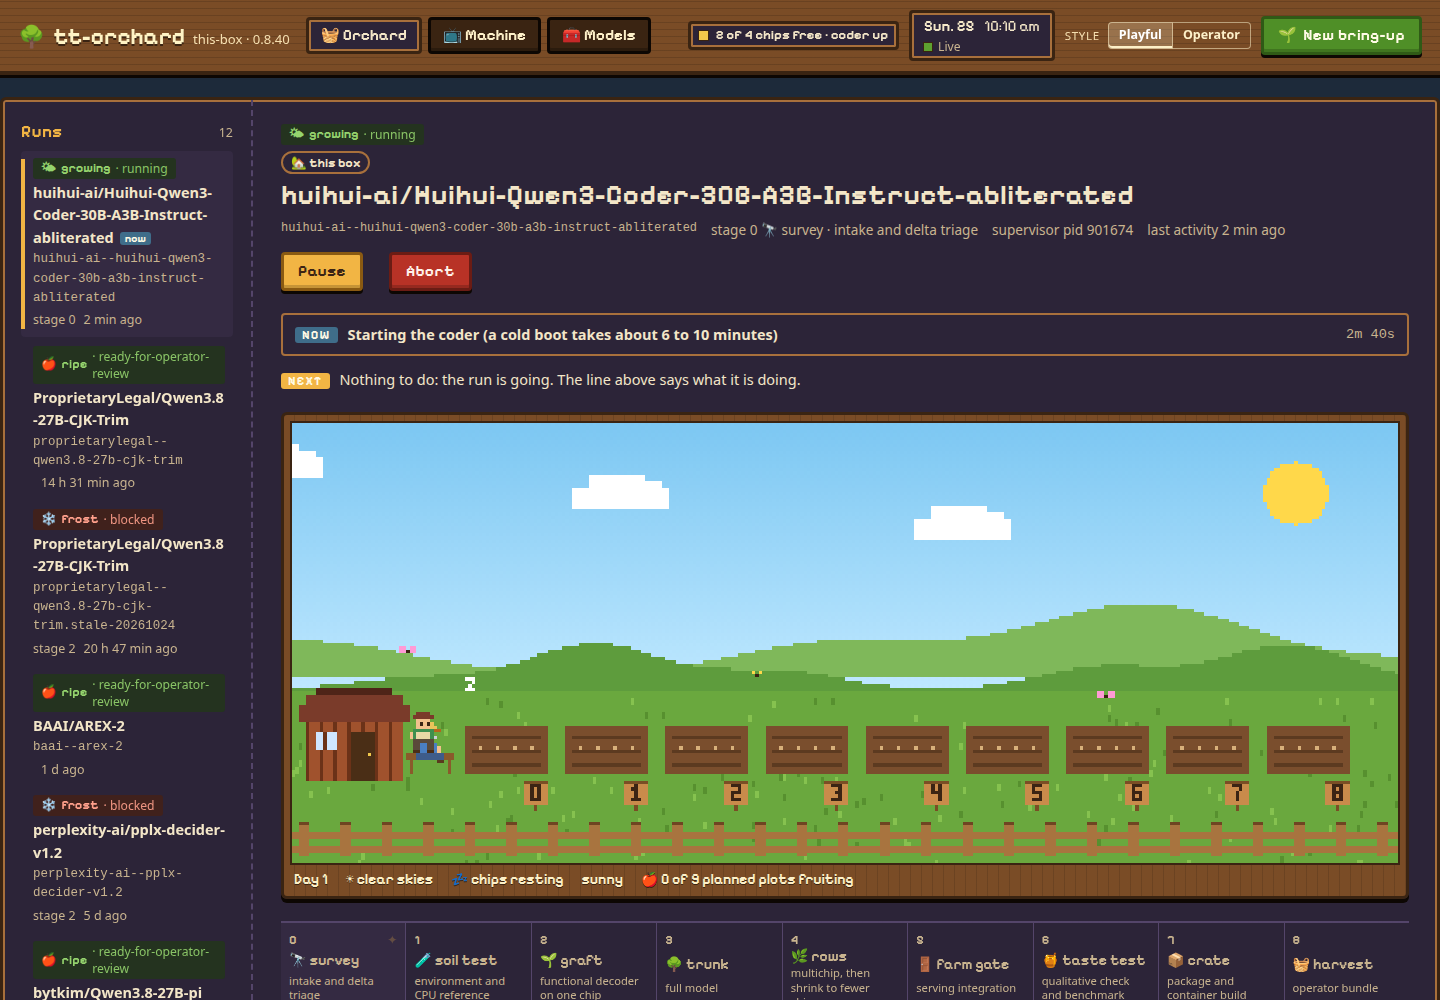
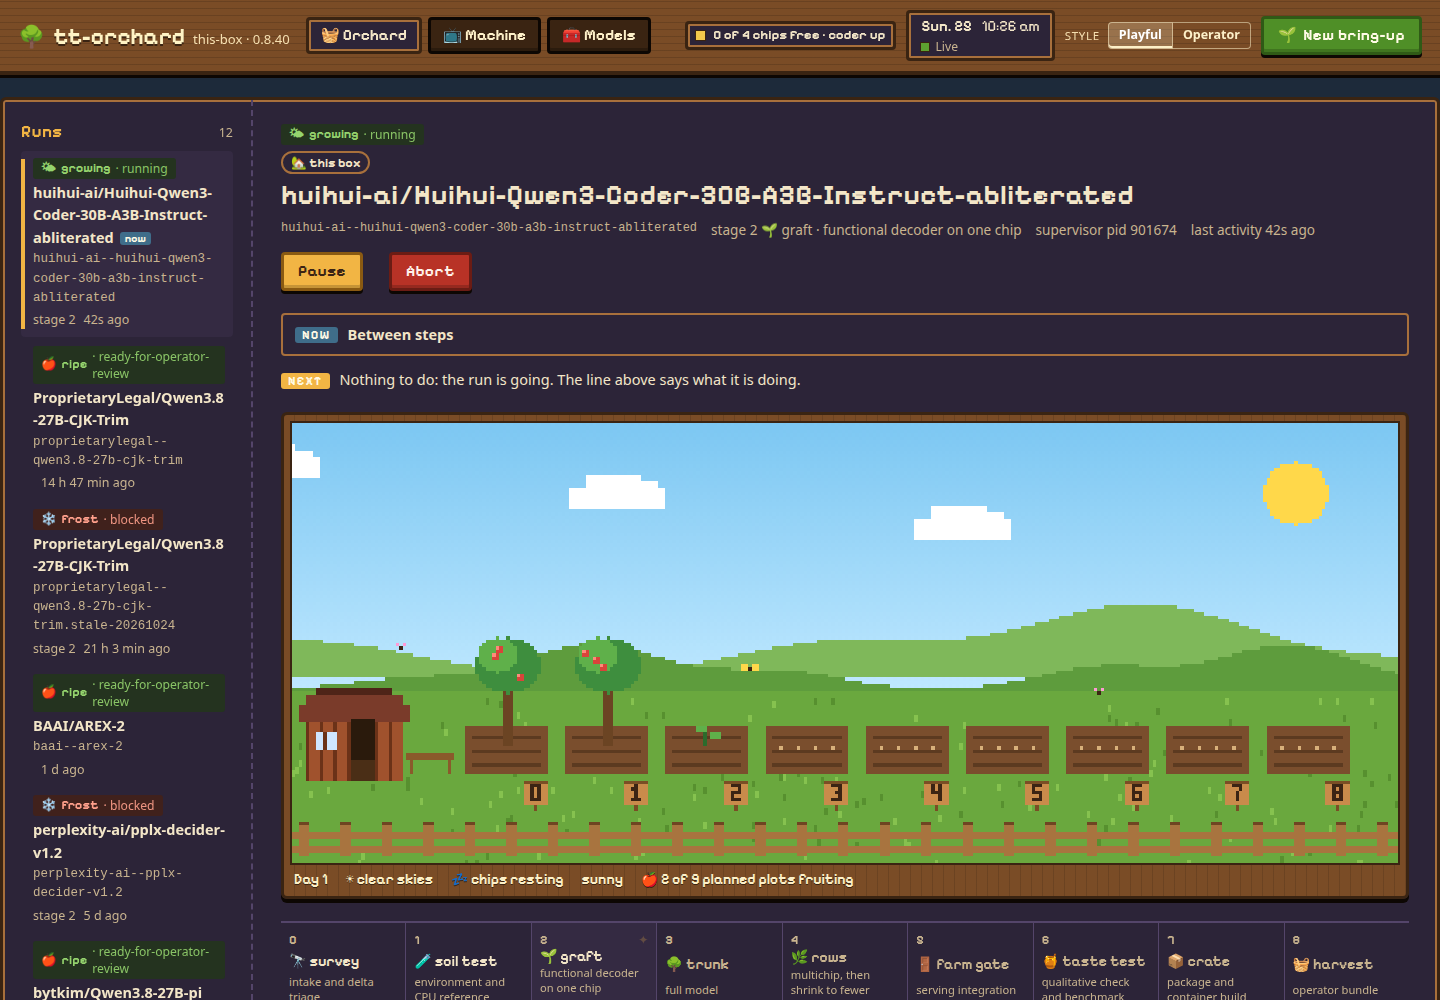
address the PR 71 review: scrub whole messages, exact run match, replay chip states, install steps

diff --git a/site/index.html b/site/index.html
@@ -281,10 +281,11 @@
 <section class="section edge" id="install">
   <div class="label">Try it</div>
   <h2>Install</h2>
-  <p class="sub">On a QuietBox 2 the setup script checks each prerequisite, installs <a href="https://github.com/tsingletaryTT/tt-gozer">tt-gozer</a> (the chip lease manager) when it is missing, and writes the machine config. It never resets a chip, takes a lease or publishes anything.</p>
+  <p class="sub">On a QuietBox 2 the setup script (run it after <code>--check</code>) checks each prerequisite, installs <a href="https://github.com/tsingletaryTT/tt-gozer">tt-gozer</a> (the chip lease manager) when it is missing, and writes the machine config. It never resets a chip, takes a lease or publishes anything.</p>
   <div class="install">
     <div class="cmd"><span class="p">$</span><span class="t">git clone https://github.com/tsingletaryTT/tt-orchard.git &amp;&amp; cd tt-orchard</span><button type="button" data-copy="git clone https://github.com/tsingletaryTT/tt-orchard.git && cd tt-orchard">copy</button></div>
-    <div class="cmd"><span class="p">$</span><span class="t">scripts/setup.sh --check        # report only</span><button type="button" data-copy="scripts/setup.sh --check">copy</button></div>
+    <div class="cmd"><span class="p">$</span><span class="t">scripts/setup.sh --check        # report only, changes nothing</span><button type="button" data-copy="scripts/setup.sh --check">copy</button></div>
+    <div class="cmd"><span class="p">$</span><span class="t">scripts/setup.sh                # asks before each step that changes the machine</span><button type="button" data-copy="scripts/setup.sh">copy</button></div>
     <div class="cmd"><span class="p">$</span><span class="t">tt-orchard bringup &lt;org/model&gt; --dry-run   # the preflight, nothing started</span><button type="button" data-copy="tt-orchard bringup <org/model> --dry-run">copy</button></div>
     <div class="cmd"><span class="p">$</span><span class="t">tt-orchard ui                  # the page above, on this machine</span><button type="button" data-copy="tt-orchard ui">copy</button></div>
   </div>
@@ -319,7 +320,7 @@
     $("#clock").textContent = "00:00 / " + fmt(total);
     let shown = 0, clock = 0, speed = 120, playing = false, last = 0;
 
-    // per-line state derived from the text: stage start/end, chip roles
+    // per-line state derived from the text: stage start/end, chip roles, park and restore
     const info = lines.map((l) => {
       const t = l.text, o = {};
       let m;
@@ -327,11 +328,14 @@
       if ((m = t.match(/^stage (\d) \([^)]*\): (pass|skipped)$/))) o.end = [+m[1], m[2]];
       if (/hardware test started on/.test(t)) o.test = (t.match(/000\d:0(\d):00\.0/g) || []).map((x) => +x.match(/:0(\d):/)[1] - 1);
       if (/hardware test passed|test lease released/.test(t)) o.testEnd = true;
+      if (/test failed at startup/.test(t)) o.failed = true;
       if (/park: stop_sent|park: stopped/.test(t)) o.park = true;
-      if (/park: reset|test chips reset|resetting the test chips/.test(t)) o.reset = true;
+      if (/^park: reset|test chips reset/.test(t)) o.reset = true;
+      if (/^restore: reset/.test(t)) o.restoreReset = true;
+      if (/^restore: serve/.test(t)) o.restoreServe = true;
+      if (/^restore: (ready|resumed)/.test(t)) o.restored = true;
       if (/the coder is ready/.test(t)) o.coderReady = true;
       if (/hardware released/.test(t)) o.released = true;
-      if (/restor|coder (re)?started|relaunch/.test(t)) o.back = true;
       return o;
     });
 
@@ -345,13 +349,20 @@
         const o = info[i];
         if (o.start !== undefined) state[o.start] = "run";
         if (o.end) state[o.end[0]] = o.end[1] === "pass" ? "done" : "skip";
-        if (o.coderReady) { coder = "up"; }
-        if (o.test) { testChips = o.test; note = "A hardware test is running on the free board; the coder keeps serving."; }
-        if (o.testEnd) { testChips = []; }
-        if (o.reset) { reset = true; note = "The test chips are being reset before the test runs."; }
-        if (o.park) { coder = "parked"; note = "The 4-chip test needs the coder's board. The coder is parked, then restored."; }
-        if (o.released) { coder = "off"; testChips = []; note = "The run is over and every chip is released."; }
-        if (o.testEnd || o.start !== undefined) reset = false;
+        if (o.coderReady) coder = "up";
+        if (o.reset) { reset = true; note = "The test chips are reset before the test runs."; }
+        if (o.test) {
+          testChips = o.test; reset = false;
+          note = coder === "parked" ? "The 4-chip test holds every chip: the coder is parked." : "A hardware test is running on the free board; the coder keeps serving.";
+        }
+        if (o.failed) { reset = true; note = "The test failed at startup. Every chip is reset and the test runs once more."; }
+        if (o.testEnd) { testChips = []; reset = false; }
+        if (o.park) { coder = "parked"; note = "The 4-chip test needs the coder's board, so the coder is stopped (parked) and restored afterwards."; }
+        if (o.restoreReset) { coder = "restoring"; reset = true; note = "The test is done. The coder's board is reset and the coder starts again."; }
+        if (o.restoreServe) { coder = "booting"; reset = false; note = "The coder is loading again; a cold start takes several minutes."; }
+        if (o.restored) { coder = "up"; note = "The coder answered its canary question and is back."; }
+        if (o.released) { coder = "off"; testChips = []; reset = false; note = "The run is over and every chip is released."; }
+        if (o.start !== undefined && !o.test) reset = false;
       }
       stageRows.forEach((el, i) => {
         el.className = "st " + state[i];
@@ -360,10 +371,11 @@
       });
       chipEls.forEach((c, i) => {
         c.className = "chip"; c.innerHTML = `<b>${i}</b>idle`;
-        if (i < 2 && (coder === "up" || coder === "start")) { c.classList.add("coder"); c.innerHTML = `<b>${i}</b>${coder === "start" ? "coder booting" : "coder"}`; }
+        if (i < 2 && (coder === "up" || coder === "start" || coder === "booting")) { c.classList.add("coder"); c.innerHTML = `<b>${i}</b>${coder === "up" ? "coder" : "coder booting"}`; }
         if (i < 2 && coder === "parked") { c.classList.add("test"); c.innerHTML = `<b>${i}</b>parked`; }
+        if (i < 2 && coder === "restoring") { c.innerHTML = `<b>${i}</b>reset`; }
         if (testChips.includes(i)) { c.className = "chip test"; c.innerHTML = `<b>${i}</b>test`; }
-        if (reset && (testChips.includes(i) || i >= 2)) { c.classList.add("reset"); }
+        if (reset && (testChips.includes(i) || i >= 2 || coder === "restoring")) { c.classList.add("reset"); }
       });
       $("#chipnote").textContent = note;
     }
@@ -446,7 +458,7 @@
 
   // ---------- screenshots ----------
   const CAP = {
-    running: "A run in progress: the coder model is booting (about 6 to 10 minutes cold). The page says what is happening now and what, if anything, to do next.",
+    running: "A run in progress, taken while a real validation run was in stage 2: the coder model is parked while a test uses its boards. The page says what is happening now and what, if anything, to do next, and sets each result against what it should be.",
     finished: "A finished run: each stage with its wall time. Stages 3, 5 and 6 are skipped by design on a weights-only model.",
     blocked: "A blocked run: the reason, what was tried, and a verdict line that sets the numbers against what they should be. This one found a reference check that failed while the agent's file said it passed.",
   };

diff --git a/scripts/site_screenshots.py b/scripts/site_screenshots.py
@@ -13,15 +13,15 @@ import socket
 import sys
 from pathlib import Path
 
-from playwright.sync_api import sync_playwright
+from playwright.sync_api import expect, sync_playwright
 
 CHROME = "/usr/bin/google-chrome"
-SHOTS = [  # file, run-name fragment, style
-    ("ui-running-playful.png", "huihui-ai--huihui-qwen3", "playful"),
-    ("ui-running-operator.png", "huihui-ai--huihui-qwen3", "operator"),
+SHOTS = [  # file, run directory name (exact), style
+    ("ui-running-playful.png", "huihui-ai--huihui-qwen3-coder-30b-a3b-instruct-abliterated", "playful"),
+    ("ui-running-operator.png", "huihui-ai--huihui-qwen3-coder-30b-a3b-instruct-abliterated", "operator"),
     ("ui-finished-playful.png", "proprietarylegal--qwen3.8-27b-cjk-trim", "playful"),
     ("ui-finished-operator.png", "proprietarylegal--qwen3.8-27b-cjk-trim", "operator"),
-    ("ui-blocked-operator.png", "perplexity-ai--pplx", "operator"),
+    ("ui-blocked-operator.png", "perplexity-ai--pplx-decider-v1.2", "operator"),
 ]
 REDACT = """([host, user]) => {
   const re = [[/\\/home\\/[^\\s·"']*/g, "~"], [new RegExp(host, "gi"), "this-box"], [new RegExp("\\\\b" + user + "\\\\b", "g"), "user"]];
@@ -44,11 +44,12 @@ def main(url: str, out: str) -> int:
             page.goto(f"{url}?mode={style}")
             page.wait_for_selector("#runs li")
             # pick the run by the name the list row carries (the row shows the model id; the run directory is in its title)
+            # the list row shows the run directory name on a line of its own: pick the one row where a line equals the name, and fail otherwise
             rows = page.locator("#runs li")
-            for i in range(rows.count()):
-                if fragment.split("--")[-1].split("-")[0] in (rows.nth(i).inner_text() + (rows.nth(i).get_attribute("title") or "")).lower():
-                    rows.nth(i).locator("button, a").first.click()
-                    break
+            hits = [i for i in range(rows.count()) if fragment in [ln.strip() for ln in rows.nth(i).inner_text().splitlines()]]
+            assert len(hits) == 1, f"{name}: {len(hits)} rows show the run {fragment!r}; need exactly one"
+            rows.nth(hits[0]).locator("button, a").first.click()
+            expect(page.locator("#run")).to_contain_text(fragment)
             page.wait_for_timeout(2500)
             page.evaluate(REDACT, [host, user])
             text = page.inner_text("body")

diff --git a/scripts/make_site_data.py b/scripts/make_site_data.py
@@ -34,12 +34,11 @@ def scrub_text(text: str, run: Path) -> str:
     return re.sub(rf"\b{re.escape(user)}\b", "user", text)
 
 
-def replay(run: Path) -> list[dict]:
-    out = io.StringIO()
-    narrate.Narrator(run, ui.Style(color=False, emoji=False), out, replay=True, tz=datetime.timezone.utc).poll()
+def assemble(raw_lines: list[str], run: Path) -> list[dict]:
+    """Narration lines to rows: ANSI removed, wrapped continuation lines joined to their line, seconds since the first, and the whole message scrubbed."""
     rows: list[dict] = []
     t0, last = None, 0
-    for raw in out.getvalue().splitlines():
+    for raw in raw_lines:
         line = ANSI.sub("", raw)
         m = LINE.match(line)
         if not m:
@@ -54,8 +53,16 @@ def replay(run: Path) -> list[dict]:
         if elapsed < last:             # a day boundary
             elapsed += 86400
         last = elapsed
-        rows.append({"t": elapsed, "actor": actor, "text": scrub_text(text.strip(), run)})
+        rows.append({"t": elapsed, "actor": actor, "text": text.strip()})
+    for r in rows:                      # scrub the assembled message: a wrapped line may carry a name that the first line does not
+        r["text"] = scrub_text(r["text"], run)
     return rows
+
+
+def replay(run: Path) -> list[dict]:
+    out = io.StringIO()
+    narrate.Narrator(run, ui.Style(color=False, emoji=False), out, replay=True, tz=datetime.timezone.utc).poll()
+    return assemble(out.getvalue().splitlines(), run)
 
 
 def stages(run: Path) -> list[dict]:
@@ -124,6 +131,7 @@ def main() -> int:
     for f in a.out.glob("*.json"):
         text = f.read_text(encoding="utf-8")
         assert "/home/" not in text and socket.gethostname().lower() not in text.lower(), f"{f.name} still holds a path or the host name"
+        assert not re.search(rf"\b{re.escape(Path.home().name)}\b", text), f"{f.name} still holds the user name"
     print(f"replay {len(rp)} lines, {rp[-1]['t'] if rp else 0} s")
     return 0
 

diff --git a/tests/test_site_data.py b/tests/test_site_data.py
@@ -1,0 +1,45 @@
+# SPDX-License-Identifier: Apache-2.0
+# SPDX-FileCopyrightText: 2026 Tenstorrent USA, Inc.
+"""The site's replay data (review of PR 71): the scrub covers the whole message, wrapped lines included."""
+import importlib.util
+import socket
+from pathlib import Path
+
+SPEC = importlib.util.spec_from_file_location("make_site_data", Path(__file__).resolve().parent.parent / "scripts" / "make_site_data.py")
+msd = importlib.util.module_from_spec(SPEC)
+SPEC.loader.exec_module(msd)
+
+USER = Path.home().name
+PAD = " " * 24
+
+
+def rows(*lines, run="/runs/x"):
+    return msd.assemble(list(lines), Path(run))
+
+
+def test_a_wrapped_continuation_line_is_scrubbed_with_its_message():
+    out = rows("10:00:00  orchardist   reading the file", f"{PAD}owned by {USER} in {Path.home()}/cache and on {socket.gethostname()}")
+    text = out[0]["text"]
+    assert USER not in text.replace("user", "") or "owned by user" in text
+    assert str(Path.home()) not in text and socket.gethostname().lower() not in text.lower()
+    assert "owned by user" in text and "~/cache" in text and "this-box" in text
+
+
+def test_the_user_name_inside_another_word_is_left_alone():
+    out = rows(f"10:00:00  orchardist   a {USER}x b")
+    assert f"{USER}x" in out[0]["text"]
+
+
+def test_continuation_text_joins_its_line_and_times_are_seconds_since_the_first():
+    out = rows("23:59:50  orchardist   first", "00:00:10  grafter      second", f"{PAD}and more")
+    assert [r["t"] for r in out] == [0, 20] and out[1]["text"] == "second and more" and out[1]["actor"] == "grafter"
+
+
+def test_ansi_colour_is_removed():
+    out = rows("10:00:00  \x1b[38;5;73morchardist   \x1b[0m hello")
+    assert out[0]["actor"] == "orchardist" and out[0]["text"] == "hello"
+
+
+def test_the_run_directory_becomes_a_label():
+    out = rows("10:00:00  orchardist   wrote /runs/x/stages/1/f", run="/runs/x")
+    assert "<run>/stages/1/f" in out[0]["text"]

diff --git a/CLAUDE.md b/CLAUDE.md
@@ -2161,3 +2161,4 @@ catalog models from their headers (tiles with the first reason), screenshots of 
 - Checked in headless Chrome: no console errors, no horizontal scroll at 390 px, bars grow when scrolled into view, reduced motion shows the finished log. A CSS class named `skip` collided between the skip link and the skipped-stage rows and hid four stage rows; found in the first screenshot, renamed.
 - The catalog tiles say what `full-port` means here: every model in that set already runs as a hand-built package; the label means only that it differs from Qwen3.8-27B in more than its weights.
 - Not done: turning Pages on for the repository (Settings, Pages, source GitHub Actions); the workflow needs it. A favicon is inline. No casts or videos yet.
+- Review fixes (Copilot, PR 71), all five real, each reproduced or checked: (1) the replay scrub covered the first line of a wrapped message only; messages are assembled first and scrubbed whole, the data check also rejects the user name, and `tests/test_site_data.py` (5, four mutations red) covers continuation lines, a name inside a longer word, ANSI, day boundaries and the run label. (2) The screenshot script matched a run by a fragment (`qwen3.8`) and fell back to the selected run when nothing matched; it now needs the exact run directory name on a line of exactly one list row and waits for the page to show it; the five screenshots were taken again (the running one now shows the validation run in stage 2 with the coder parked, and its caption says so). (3) The replay left the reset state on during the 4-chip test and kept the explanation "the coder keeps serving"; a test start clears the reset and the note follows the coder's state. (4) The restore transitions were computed and unused; reset, serve and ready now drive the first board's label and the note (checked at 1,900, 2,100, 2,500 and 2,800 s). (5) The install block ran only `setup.sh --check` before the CLI examples; the real setup line is there.
